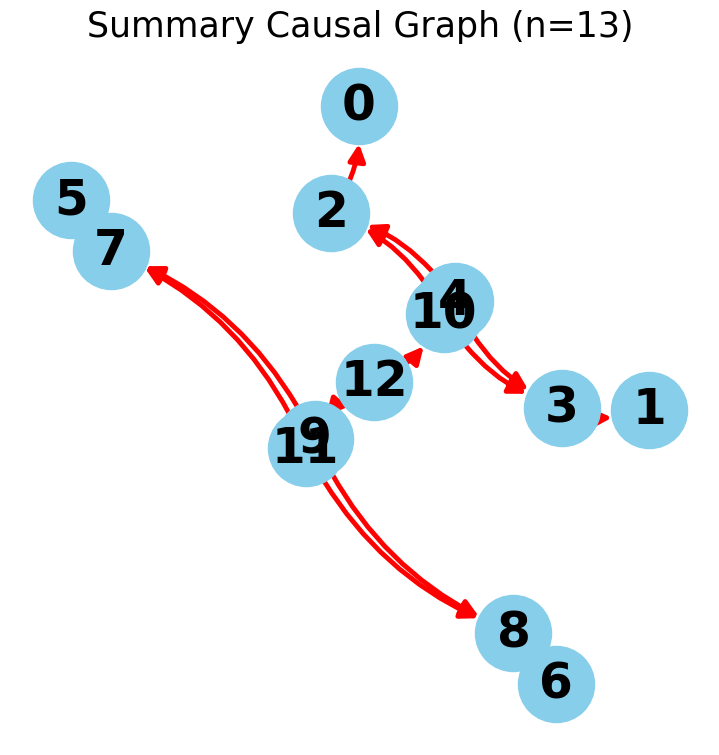
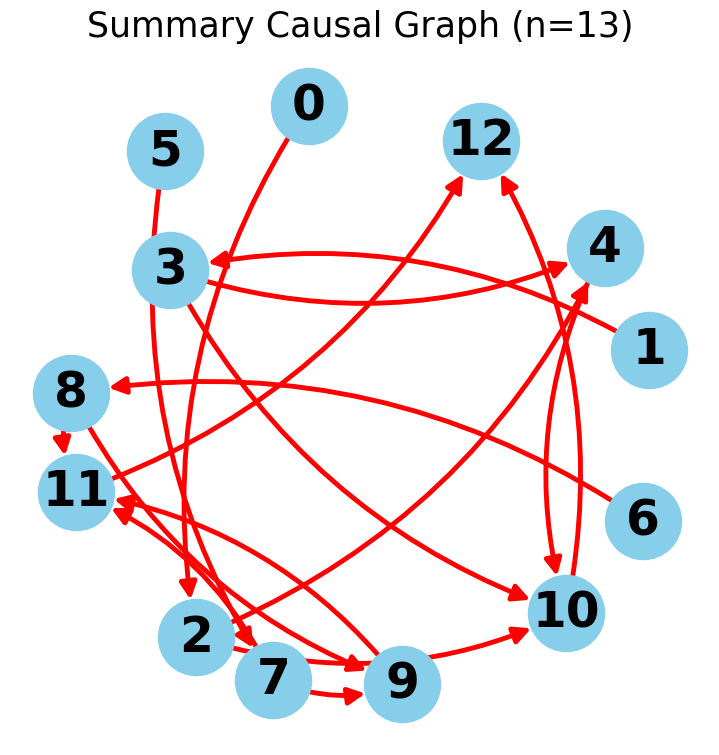
update

diff --git a/generate_data/generate_IT_summary_matrix.py b/generate_data/generate_IT_summary_matrix.py
@@ -11,8 +11,8 @@ sys.path.append(ROOT_DIR)
 from helper.helper_methods import plot_summary_causal_graph
 
 # Modify the paths to your input and output files
-DATA_PATH = os.path.join(ROOT_DIR, "data", "Antivirus_Activity")
-input_data_filename = DATA_PATH + '/preprocessed_2.csv'
+DATA_PATH = os.path.join(ROOT_DIR, "data", "Storm_Ingestion_Activity")
+input_data_filename = DATA_PATH + '/storm_data_normal.csv'
 input_structure_filename = DATA_PATH + '/structure.txt'
 output_matrix_filename = DATA_PATH + '/summary_matrix.npy'
 output_graph_filename = DATA_PATH + '/causal_graph.png'
@@ -25,15 +25,18 @@ if __name__ == "__main__":
     param_data = pd.read_csv(input_data_filename, delimiter=',', index_col=0, header=0)
 
     param_data.columns = param_data.columns.str.replace(' ', '_')
+    print("\nParameter data:")
+    print(param_data.columns)
 
     three_col_format = np.loadtxt(input_structure_filename, delimiter=' ', dtype=str)
+    print(three_col_format)
 
     summary_matrix = pd.DataFrame(np.zeros([param_data.shape[1], param_data.shape[1]]), columns=param_data.columns, index=param_data.columns, dtype=int)
 
     for i in range(three_col_format.shape[0]):
         c = three_col_format[i, 0]
         e = three_col_format[i, 1]
-        summary_matrix.loc[c, e] = 1
+        summary_matrix.loc[e, c] = 1
 
     print("\nSummary adjacency matrix:")
     print(summary_matrix)

diff --git a/helper/helper_methods.py b/helper/helper_methods.py
@@ -54,6 +54,7 @@ def convert_Btaus_to_summary_matrix(B_taus):
     return summary_matrix
 
 
+
 def plot_summary_causal_graph(B_taus, filename="summary_causal_graph.png"):
     """
     Plots and saves a summary causal graph from a 3D array of Btau matrices.
@@ -130,11 +131,11 @@ def plot_summary_causal_graph(B_taus, filename="summary_causal_graph.png"):
         edge_width = 1.0
     else:
         if n_vars <= 5:
-            k_val = 0.9
+            k_val = 8
         elif n_vars <= 10:
-            k_val = 0.6
+            k_val = 6
         else:
-            k_val = 0.5
+            k_val = 4
         pos = nx.spring_layout(G, k=k_val, iterations=100, seed=42)
         node_size = 3000
         font_size = 35
